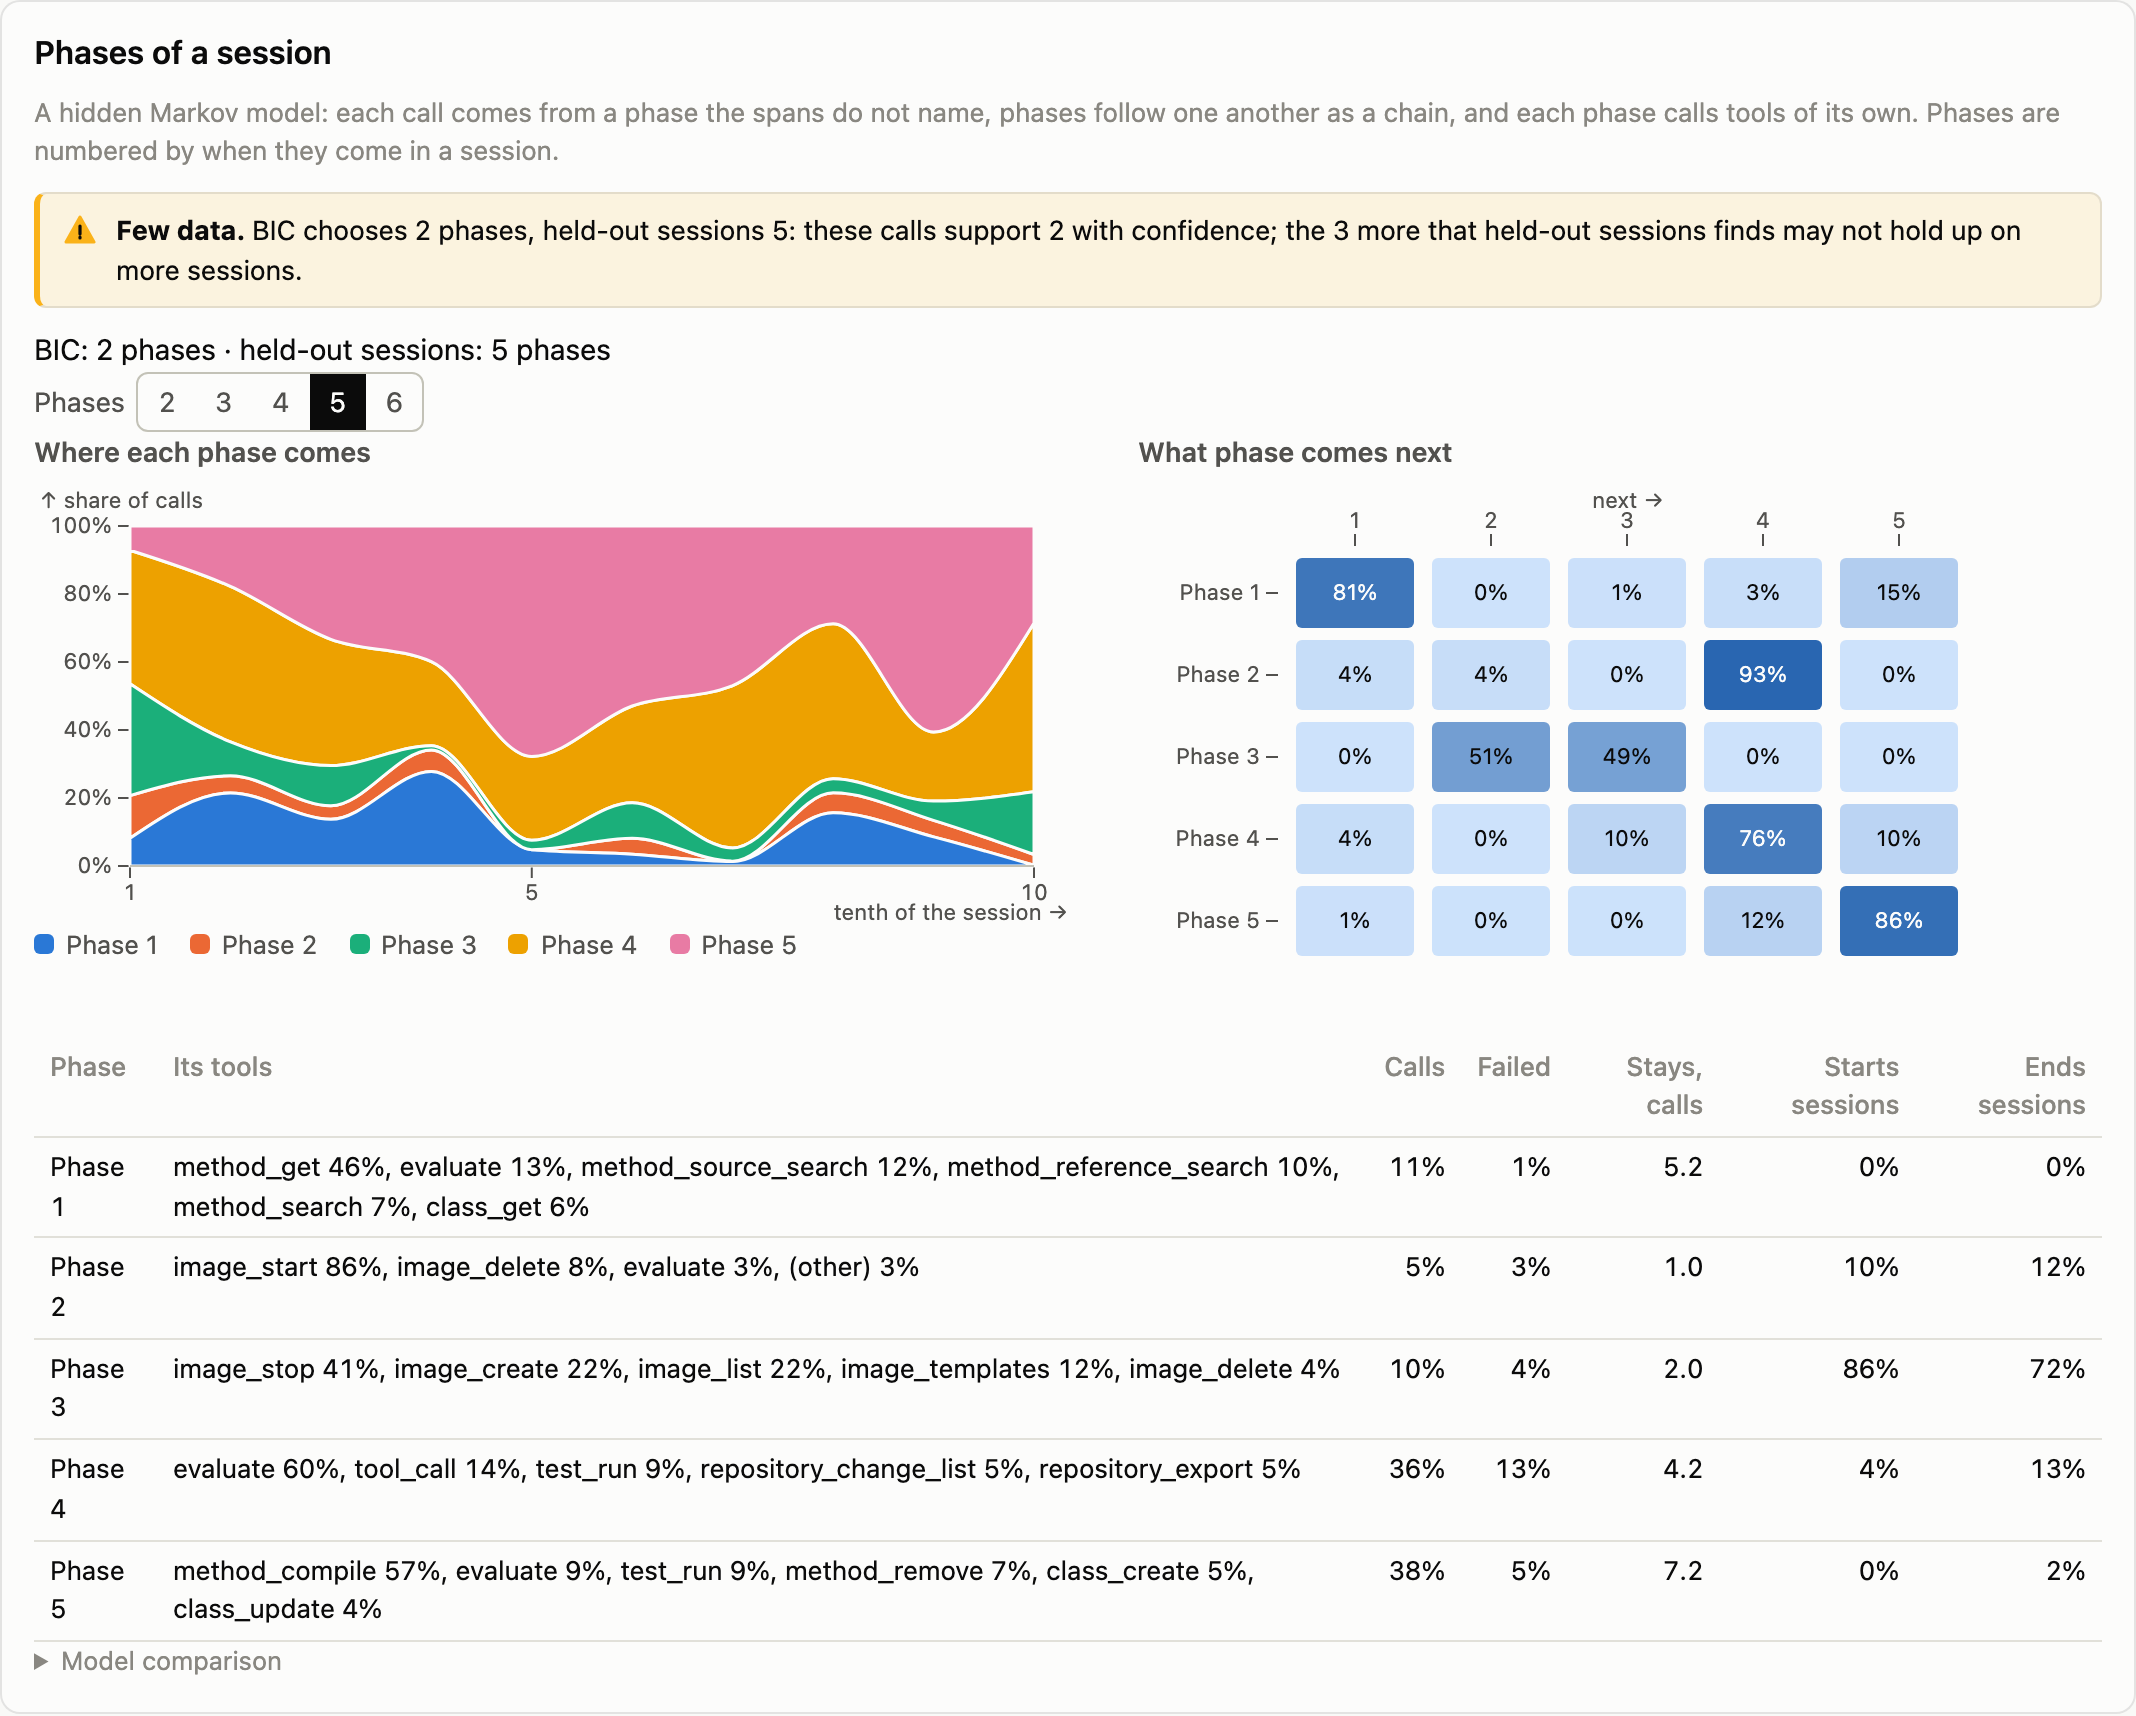
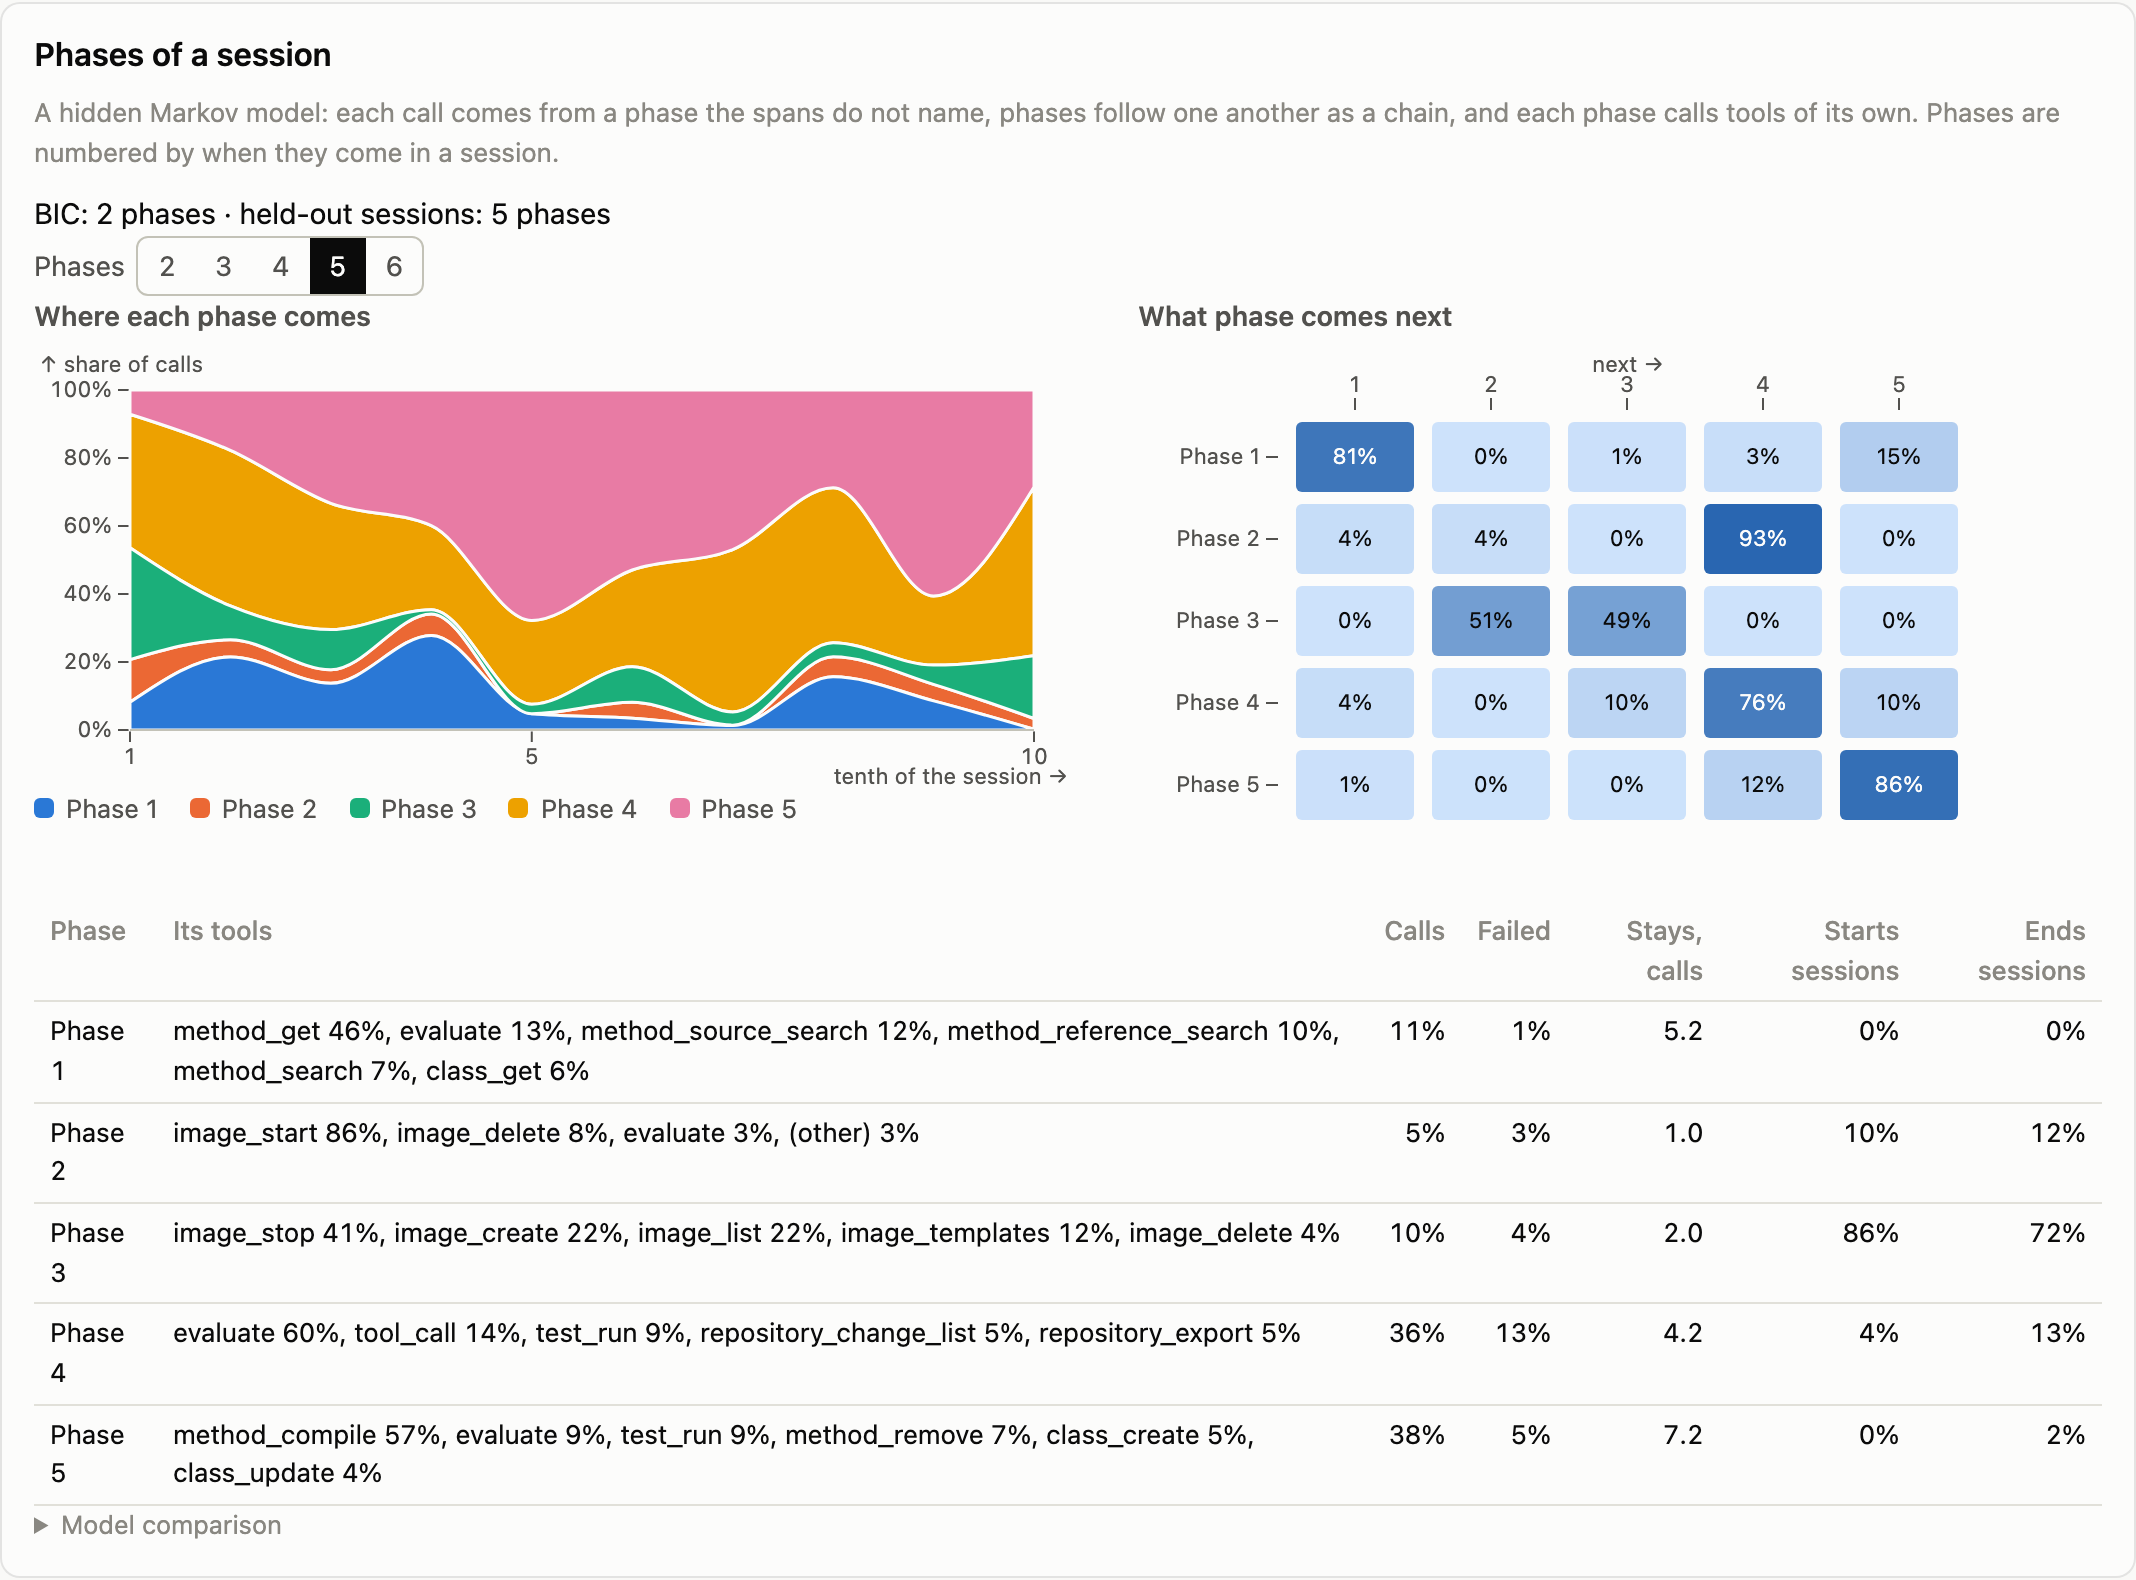
Keep the posts' figures to what they show
The Kibana arguments table is cropped to its rows, the versions panel stands alone without the one-system chart, and the report's phases and funnel views are captured without their few-data notes. Neither post says where its figures come from.

diff --git a/src/content/posts/pharo-agent-analytics.md b/src/content/posts/pharo-agent-analytics.md
@@ -70,7 +70,7 @@ Each analysis is made for all calls, and again for each agent host, each release
 - **How the work flows.** A process map of which call follows which; the most common whole sessions; pairs of calls that follow each other more often than chance would explain, which may show that a tool or a richer answer is missing; and the path from compiling a method to passing tests.
 - **Where the time goes.** The time a tool takes, compared with the time the agent takes after the tool's answer, and the calls that the model asked for together, in one answer.
 
-The figures in this post come from the report on the spans of a few of us at Berger-Levrault, over one week. The report shows the calls of each agent host apart, and these are Claude Code's: 774 calls in 22 sessions. The other sessions were scripts that check the tools, not agents at work. The process map follows the calls from the start of a session to its end. Agents call `evaluate` the most, often many times in a row, and they compile methods in long runs too:
+The figures in this post come from a report on 774 calls in 22 sessions. The process map follows the calls from the start of a session to its end. Agents call `evaluate` the most, often many times in a row, and they compile methods in long runs too:
 
 ![The process map: each box is a tool, with its calls and the share that failed, and each arrow a call that followed another, with how many times; the 14 most used of 26 tools, with evaluate called 206 times](../../assets/posts/pharo-agent-analytics/process-map.png)
 
@@ -86,9 +86,9 @@ A process map counts which call follows which. It is a first-order [Markov chain
 - **After a failure.** A chain over each tool and whether it worked or failed, which stops when the tool works or when the session ends. It gives the chance that a failed tool works before the session ends, and how many calls that takes [@grinstead1997, ch. 11]. Compared with what really happened, it shows when more than the last call matters.
 - **Phases.** A [hidden Markov model](https://en.wikipedia.org/wiki/Hidden_Markov_model) finds phases in the sessions from the tools called, between 1 and 6 of them [@rabiner1989]. BIC and sessions kept apart for testing choose how many [@celeux2008]. The spans do not name the phases: the report shows which tools each phase uses, and when it comes in a session.
 
-On these sessions, BIC chooses two phases and the sessions kept apart choose five, so the report warns that the three more may not hold on more sessions. Named from their tools, the five phases still read clearly: one reads code, one starts images, one manages them, one runs code with `evaluate` and tests, and one compiles methods.
+Here, BIC chooses two phases and the sessions kept apart choose five. Named from their tools, the five phases read clearly: one reads code, one starts images, one manages them, one runs code with `evaluate` and tests, and one compiles methods.
 
-![The phases of a session: where each of five phases comes in a session, the chance that each phase follows another, and the tools of each phase, under a warning that the data are few](../../assets/posts/pharo-agent-analytics/phases.png)
+![The phases of a session: where each of five phases comes in a session, the chance that each phase follows another, and the tools of each phase](../../assets/posts/pharo-agent-analytics/phases.png)
 
 ## Keeping the numbers honest
 
@@ -101,7 +101,7 @@ A number here shows where to look; it does not decide anything. The spans say wh
 - **A second number.** Better descriptions of MCP tools raised task success by a median of 5.85 points, but took 67% more steps [@hasan2026]. A success rate alone would have hidden that cost, so each number comes with another one that would show if it is being gamed. Mixing easy and hard tasks also misleads: longer runs seem to fail more, but the opposite is true once the difficulty of the task is taken into account [@mehtiyev2026].
 - **Saying when the data are too few.** A view warns when its shares rest on fewer than 39 observations: below that, a 95% Wilson interval around one half is more than 15 points wide on each side. It also warns when the criteria that choose a model disagree. The report marks each view that has a warning, and its sidebar can hide those views.
 
-On these sessions, the funnel plot shows two tools that fail more often than chance would explain: `evaluate` and `tool_call`. A tool that failed in its only session stays inside the funnel: one session is too few to tell.
+Here, the funnel plot shows two tools that fail more often than chance would explain: `evaluate` and `tool_call`. A tool that failed in its only session stays inside the funnel: one session is too few to tell.
 
 ![Failure against use: each tool as a dot, the sessions that used it against the share in which it failed, inside a funnel that narrows as use grows; evaluate and tool_call are above it](../../assets/posts/pharo-agent-analytics/tools.png)
 

diff --git a/src/content/posts/pharo-tools-observability.md b/src/content/posts/pharo-tools-observability.md
@@ -58,9 +58,9 @@ PLexus also records a span when it creates, starts, stops or deletes an image. A
 
 ### In a dashboard
 
-Any backend can count these attributes and draw them. Here they are in a [Kibana](https://www.elastic.co/kibana) dashboard, over one week of the sessions of a few of us at Berger-Levrault, working in Pharo with Claude Code. Each call is counted once, even when it went through PLexus to an image.
+Any backend can count these attributes and draw them. Here they are in a [Kibana](https://www.elastic.co/kibana) dashboard. Each call is counted once, even when it went through PLexus to an image.
 
-The tool's name, how the call ended, how long it took and the size of its answer make a table of the tools. *Advertised* is whether the server lists the tool for the agent, rather than the agent having to search for it. The sizes here are rounded to a power of two:
+The tool's name, how the call ended, how long it took and the size of its answer make a table of the tools. *Advertised* is whether the server lists the tool for the agent, rather than the agent having to search for it:
 
 ![Each tool: the tools by number of calls, evaluate first with 206, with the share of calls advertised, failed and cut to fit, the median and 95th percentile of their duration, and the median size of their answer](../../assets/posts/pharo-tools-observability/per-tool.png)
 
@@ -72,9 +72,9 @@ The names of the arguments a tool does not take show where agents guess wrong:
 
 ![Arguments a tool does not take: class_get called twice with class, and image_stop and method_get each once with an argument they do not have](../../assets/posts/pharo-tools-observability/unknown-arguments.png)
 
-And since each span says which release of MCP or PLexus made it, and on which system, you see which releases are in use:
+And since each span says which release of MCP or PLexus made it, you see which releases are in use:
 
-![Sessions by version and by system: PLexus 0.22.0 in most sessions, then MCP 4.4.0, PLexus 0.24.0, and older releases; every session on macOS (darwin)](../../assets/posts/pharo-tools-observability/versions-systems.png)
+![Sessions, by version: PLexus 0.22.0 in most sessions, then MCP 4.4.0, PLexus 0.24.0, and older releases](../../assets/posts/pharo-tools-observability/versions.png)
 
 ## Built on OpenTelemetry's conventions for AI
 
